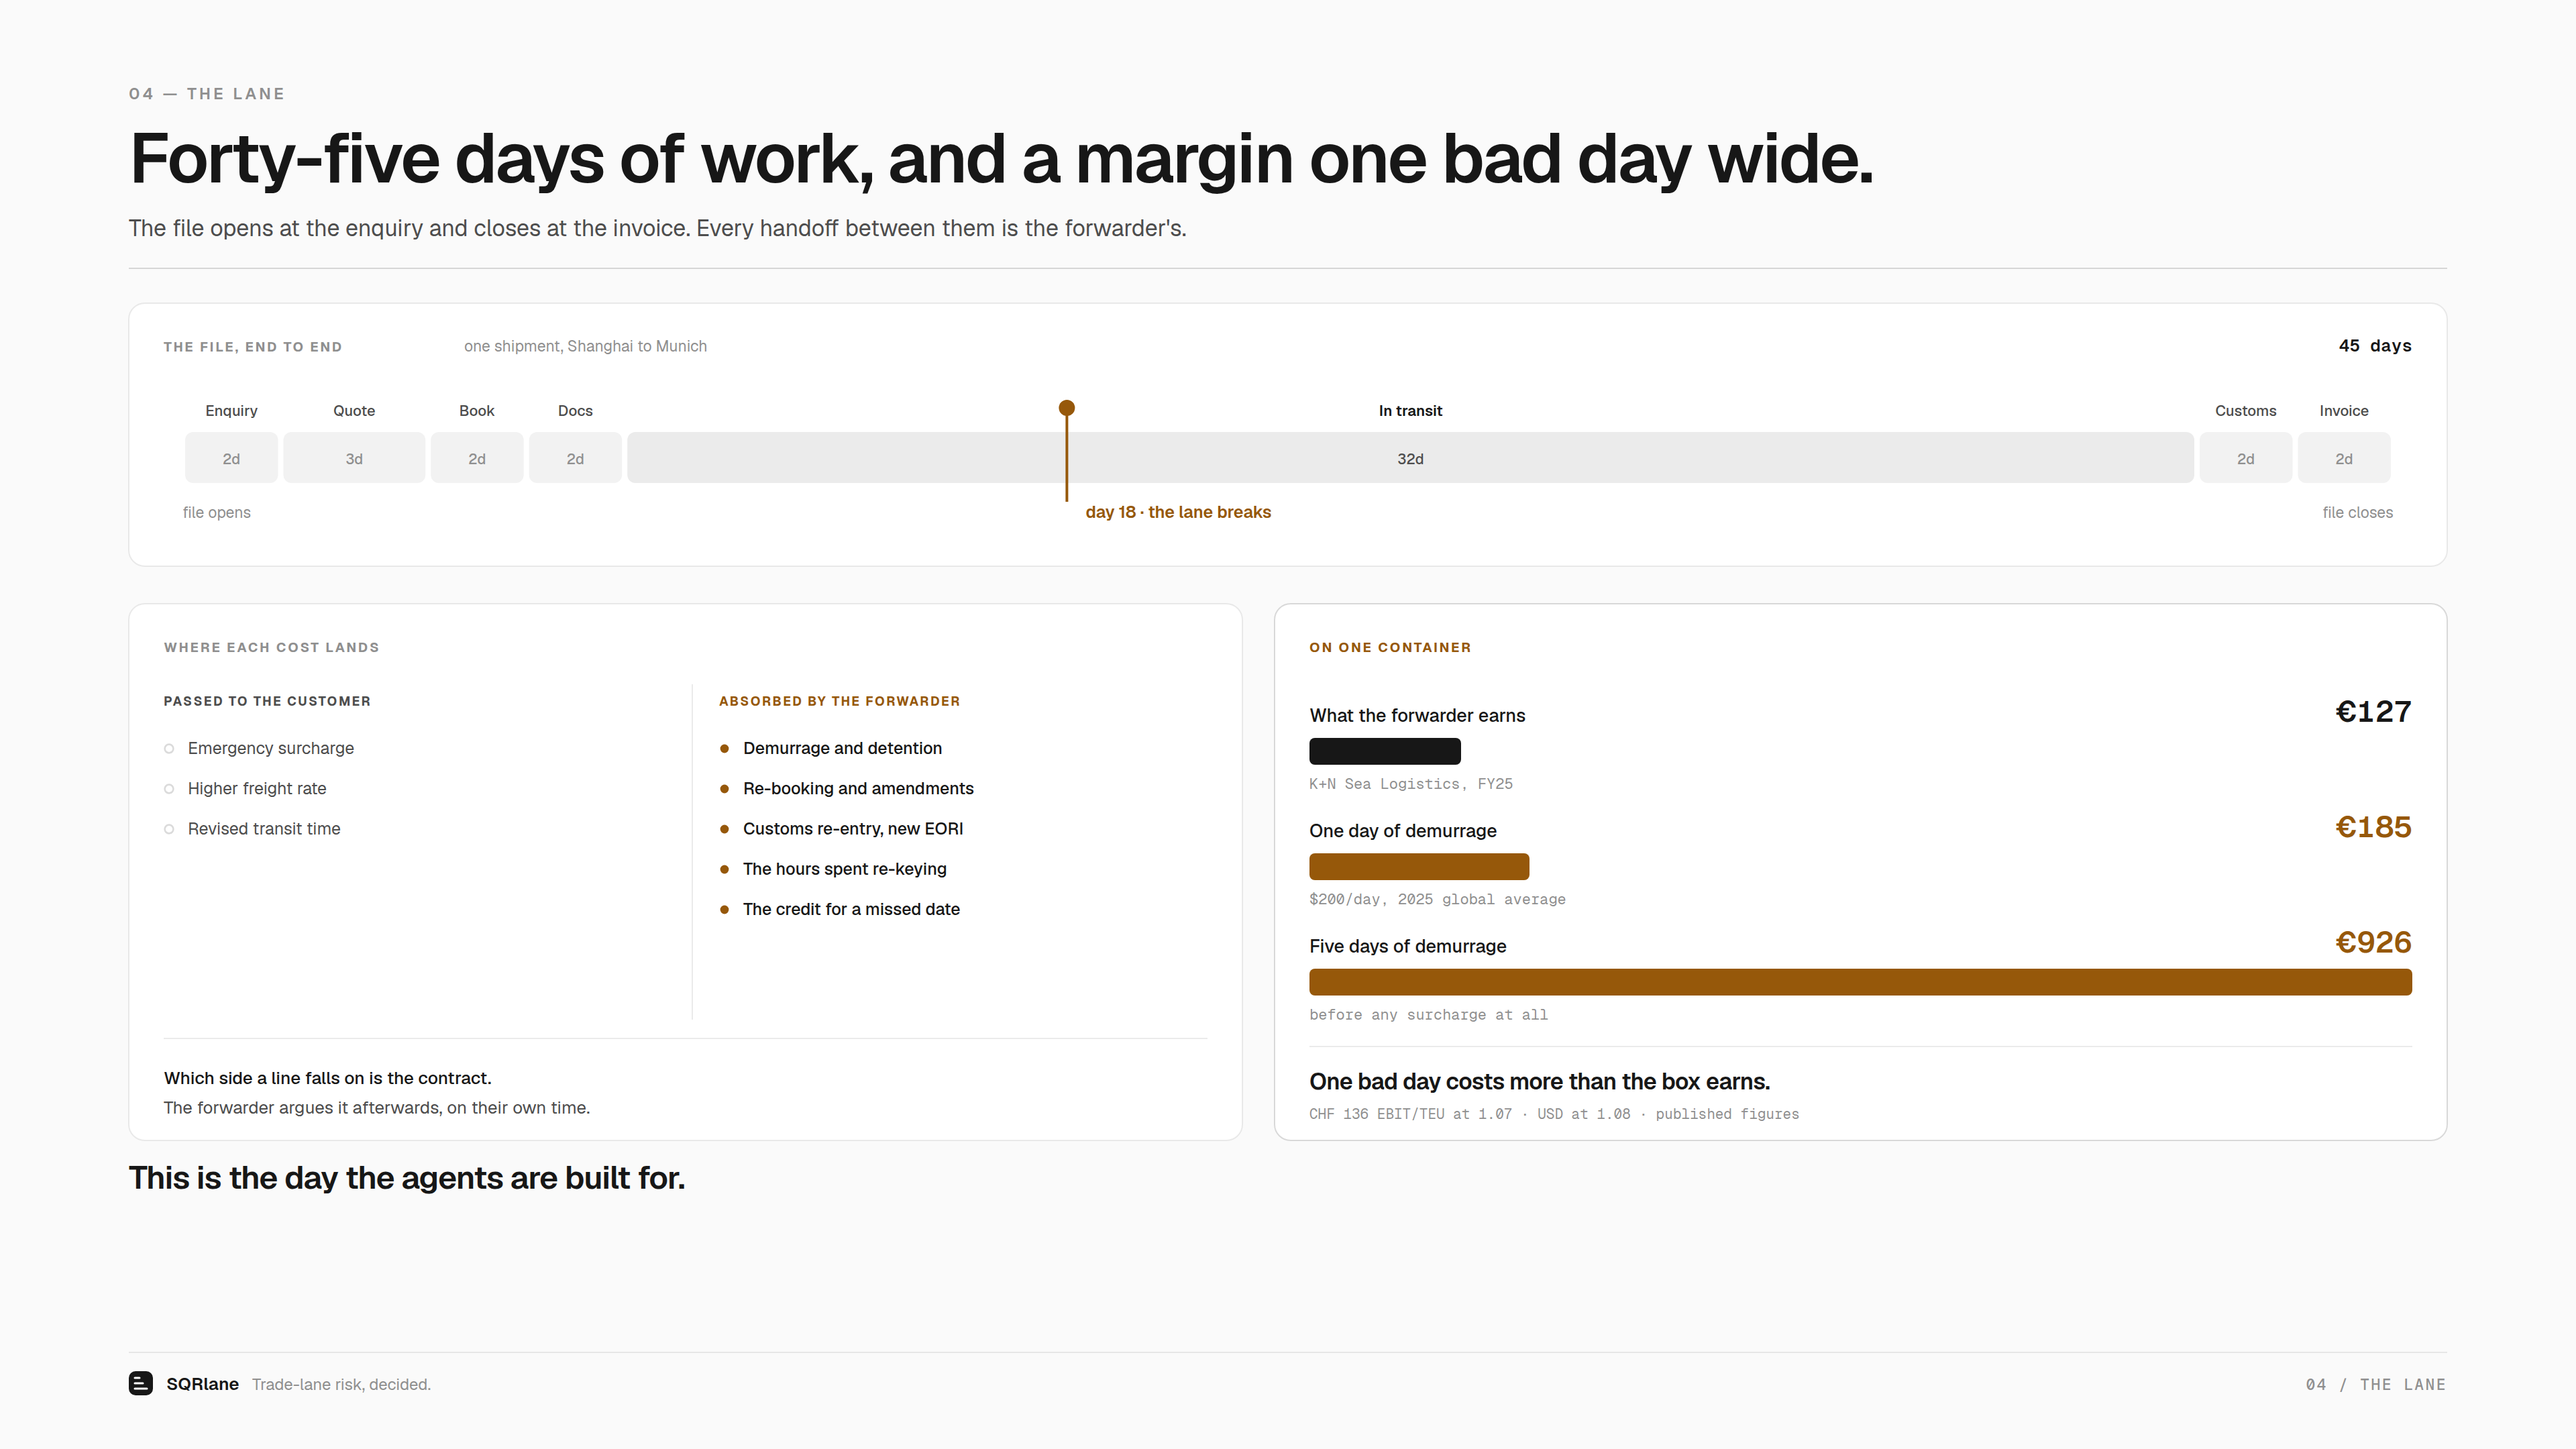
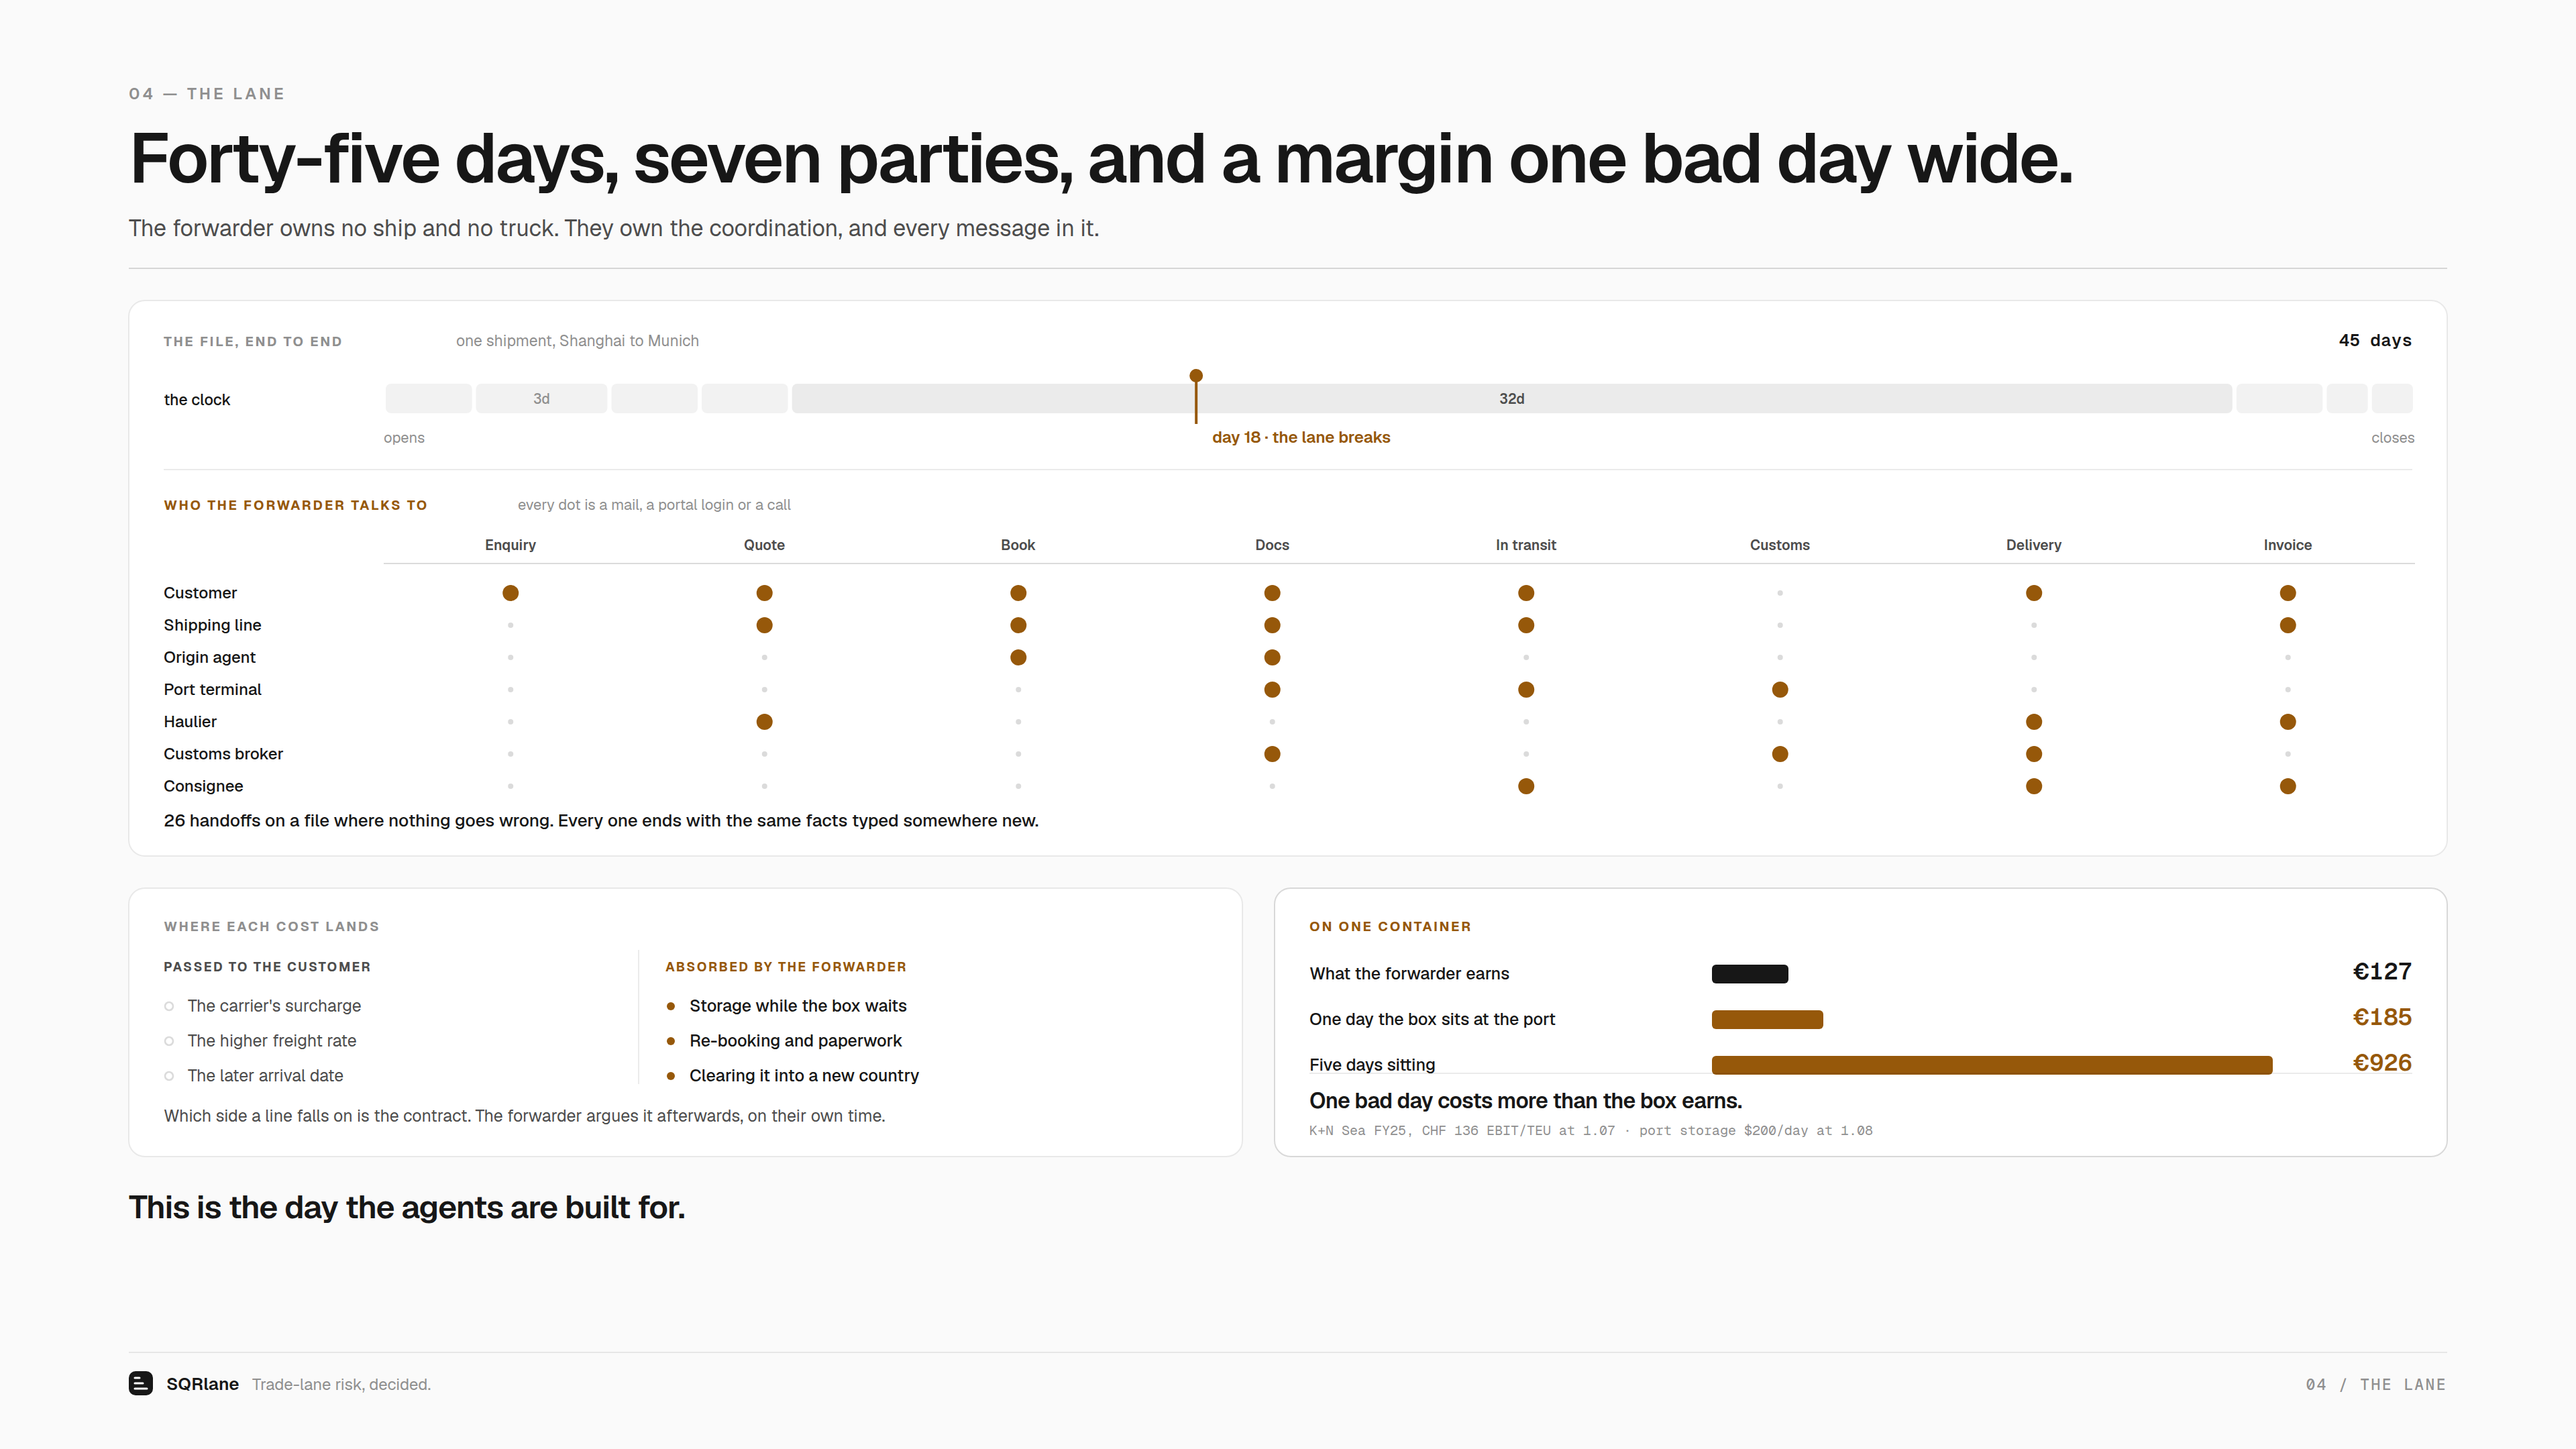
Deck: slide 04 gains the coordination web, and drops the jargon
The file was a duration bar and little else - it showed how long the job takes
without showing what the job is. The card now carries two views. The clock stays
as a proportional strip, so the sea leg visibly owns 32 of the 45 days and the
break lands at day 18. Under it, a matrix: seven parties down the side, eight
stages across, a dot wherever the forwarder has to deal with someone.

That matrix is the argument. Twenty-six dots on a file where nothing goes
wrong, counted from the data rather than asserted, and the caption names what
each one actually is: a mail, a portal login or a call that ends with the same
facts typed somewhere new. It also explains the shape of the business - a
forwarder owns no ship and no truck, so the coordination is the whole product,
and the density on screen is what that costs.

Jargon out. Demurrage and detention become storage while the box waits, and the
bars read "one day the box sits at the port" rather than naming a charge nobody
outside the trade knows. The figures are unchanged; only the words are.

The clock also gains Delivery, so the timeline and the matrix describe the same
eight stages instead of seven and eight.

Claude-Session: https://claude.ai/code/session_01CuQZ1wNRwUerJJo7pbi7JH

diff --git a/deck/build_slide_04.py b/deck/build_slide_04.py
@@ -2,110 +2,134 @@
 """
 Slide 04 - THE LANE.  Emits deck/slide-04-the-lane.svg.
 
-The bridge between why and how. Two jobs:
+The bridge from why into how. Three things:
 
-  what a forwarder's work actually is - where the file opens, where it closes,
-  and how much of the 45 days is spent waiting rather than working
+  the file, end to end, drawn to scale so the sea leg visibly dominates
+  the coordination web: who the forwarder talks to at each stage, as a matrix,
+    because the density is the job
+  what one bad day costs, and which side of the invoice it lands on
 
-  what a disruption in the middle of it costs, and which side of the invoice
-  each cost lands on
+Plain language throughout: no demurrage, no detention. A day the box sits at
+the port is what it is.
 
-The punch is the margin comparison. Kuehne+Nagel Sea Logistics - the best-run
-operator in the industry - earns CHF 136 of EBIT per TEU. One day of demurrage
-at the 2025 global average costs more than that. Every figure is published and
-its conversion is on the slide.
+EUR 127 is Kuehne+Nagel Sea Logistics FY25 - CHF 585m recurring EBIT over 4.3M
+TEU - the best-run operator in the industry, so the comparison is conservative.
+Port storage is the 2025 global average. Both conversions are on the slide.
 """
 from deckkit import *
 
-GREEN, GREEN_BG = "#0f7b3f", "#e7f5ec"
-RED_BG = "#feecec"
+GREEN = "#0f7b3f"
 
 s = Slide()
 s.header("04 — THE LANE",
-         "Forty-five days of work, and a margin one bad day wide.",
-         "The file opens at the enquiry and closes at the invoice. Every handoff between them is the forwarder's.")
+         "Forty-five days, seven parties, and a margin one bad day wide.",
+         "The forwarder owns no ship and no truck. They own the coordination, and every message in it.")
 
 # =========================================================================
-# THE FILE, END TO END
+# THE FILE - the clock, then the coordination
 # =========================================================================
-FY, FH = 226, 196
+FY, FH = 224, 414
 s.card(M, FY, CW, FH)
-s.text(M + 26, FY + 36, "THE FILE, END TO END", 10, 700, FAINT, ls=1.4)
-s.text(M + 250, FY + 36, "one shipment, Shanghai to Munich", 11.5, 400, FAINT)
-s.text(W - M - 26, FY + 36, "45 days", 13, 600, FG, anchor="end", cls="mono")
+s.text(M + 26, FY + 34, "THE FILE, END TO END", 10, 700, FAINT, ls=1.4)
+s.text(M + 244, FY + 34, "one shipment, Shanghai to Munich", 11.5, 400, FAINT)
+s.text(W - M - 26, FY + 34, "45 days", 13, 600, FG, anchor="end", cls="mono")
 
 STAGES = [("Enquiry", 2), ("Quote", 3), ("Book", 2), ("Docs", 2),
-          ("In transit", 32), ("Customs", 2), ("Invoice", 2)]
-TX0, TXW = M + 40, CW - 80
-UNIT = TXW / sum(d for _, d in STAGES)
+          ("In transit", 32), ("Customs", 2), ("Delivery", 1), ("Invoice", 1)]
+TX0, TXW = M + 190, CW - 214
+UNIT = TXW / 45
 x = TX0
 for name, days in STAGES:
     w = days * UNIT
-    hot = name == "In transit"
-    s.card(x + 2, FY + 96, w - 4, 38, fill=SURFACE_2 if hot else SURFACE, stroke="none", rx=R)
-    s.text(x + w / 2, FY + 84, name, 11, 600 if hot else 500, FG if hot else MUTED, anchor="middle")
-    s.text(x + w / 2, FY + 120, f"{days}d", 11, 500, MUTED if hot else FAINT,
-           anchor="middle", cls="mono")
+    hot = days > 10
+    s.card(x + 1.5, FY + 62, w - 3, 22, fill=SURFACE_2 if hot else SURFACE, stroke="none", rx=4)
+    if w > 70:
+        s.text(x + w / 2, FY + 77, f"{days}d", 10.5, 600 if hot else 500,
+               MUTED if hot else FAINT, anchor="middle", cls="mono")
     x += w
-
+s.text(M + 26, FY + 78, "the clock", 11.5, 500, FG)
 STRIKE = TX0 + 18 * UNIT
-s.line(STRIKE, FY + 78, STRIKE, FY + 148, AMBER, 2)
-s.raw(f'<circle cx="{STRIKE}" cy="{FY+78}" r="6" fill="{AMBER}"/>')
-s.text(STRIKE + 14, FY + 160, "day 18 · the lane breaks", 12.5, 600, AMBER)
-s.text(TX0, FY + 160, "file opens", 11.5, 400, FAINT)
-s.text(TX0 + TXW, FY + 160, "file closes", 11.5, 400, FAINT, anchor="end")
+s.line(STRIKE, FY + 56, STRIKE, FY + 92, AMBER, 2)
+s.raw(f'<circle cx="{STRIKE}" cy="{FY+56}" r="5" fill="{AMBER}"/>')
+s.text(STRIKE + 12, FY + 106, "day 18 · the lane breaks", 12, 600, AMBER)
+s.text(TX0, FY + 106, "opens", 11, 400, FAINT)
+s.text(TX0 + TXW, FY + 106, "closes", 11, 400, FAINT, anchor="end")
+s.line(M + 26, FY + 126, W - M - 26, FY + 126, BORDER)
+
+# -- the coordination web -------------------------------------------------
+s.text(M + 26, FY + 156, "WHO THE FORWARDER TALKS TO", 10, 700, AMBER, ls=1.4)
+s.text(M + 290, FY + 156, "every dot is a mail, a portal login or a call", 11, 400, FAINT)
+
+COLS = ["Enquiry", "Quote", "Book", "Docs", "In transit", "Customs", "Delivery", "Invoice"]
+PARTIES = [
+    ("Customer", [1, 1, 1, 1, 1, 0, 1, 1]),
+    ("Shipping line", [0, 1, 1, 1, 1, 0, 0, 1]),
+    ("Origin agent", [0, 0, 1, 1, 0, 0, 0, 0]),
+    ("Port terminal", [0, 0, 0, 1, 1, 1, 0, 0]),
+    ("Haulier", [0, 1, 0, 0, 0, 0, 1, 1]),
+    ("Customs broker", [0, 0, 0, 1, 0, 1, 1, 0]),
+    ("Consignee", [0, 0, 0, 0, 1, 0, 1, 1]),
+]
+TOUCHES = sum(sum(r) for _, r in PARTIES)
+MX0, MW_ = M + 190, CW - 214
+CWD = MW_ / len(COLS)
+for c, lab in enumerate(COLS):
+    s.text(MX0 + c * CWD + CWD / 2, FY + 186, lab, 10.5, 600, MUTED, anchor="middle")
+s.line(MX0, FY + 196, MX0 + MW_, FY + 196, BORDER_STRONG)
+for r, (party, row) in enumerate(PARTIES):
+    y = FY + 218 + r * 24
+    s.text(M + 26, y + 4, party, 12, 500, FG)
+    for c, on in enumerate(row):
+        cx = MX0 + c * CWD + CWD / 2
+        if on:
+            s.raw(f'<circle cx="{cx}" cy="{y}" r="6" fill="{AMBER}"/>')
+        else:
+            s.raw(f'<circle cx="{cx}" cy="{y}" r="2" fill="{GRAY400}"/>')
+s.text(M + 26, FY + FH - 22,
+       f"{TOUCHES} handoffs on a file where nothing goes wrong. Every one ends with the same facts "
+       "typed somewhere new.", 13, 500, FG)
 
 # =========================================================================
-# WHAT IT COSTS, AND WHERE IT LANDS
+# WHAT ONE BAD DAY COSTS
 # =========================================================================
-CY, CH2 = 450, 400
+CY, CH2 = 662, 200
 s.card(M, CY, 830, CH2)
-s.text(M + 26, CY + 36, "WHERE EACH COST LANDS", 10, 700, FAINT, ls=1.4)
+s.text(M + 26, CY + 32, "WHERE EACH COST LANDS", 10, 700, FAINT, ls=1.4)
 for lab, x0, col in (("PASSED TO THE CUSTOMER", M + 26, MUTED),
-                     ("ABSORBED BY THE FORWARDER", M + 440, AMBER)):
-    s.text(x0, CY + 76, lab, 9.5, 700, col, ls=1.2)
-s.line(M + 420, CY + 60, M + 420, CY + CH2 - 90, BORDER)
-
-PASSED = ["Emergency surcharge", "Higher freight rate", "Revised transit time"]
-EATEN = ["Demurrage and detention", "Re-booking and amendments", "Customs re-entry, new EORI",
-         "The hours spent re-keying", "The credit for a missed date"]
-for j, item in enumerate(PASSED):
-    y = CY + 112 + j * 30
-    s.raw(f'<circle cx="{M+30}" cy="{y-4}" r="3.2" fill="none" stroke="{GRAY400}" stroke-width="1.3"/>')
+                     ("ABSORBED BY THE FORWARDER", M + 400, AMBER)):
+    s.text(x0, CY + 62, lab, 9.5, 700, col, ls=1.2)
+s.line(M + 380, CY + 46, M + 380, CY + CH2 - 54, BORDER)
+for j, item in enumerate(["The carrier's surcharge", "The higher freight rate", "The later arrival date"]):
+    y = CY + 92 + j * 26
+    s.raw(f'<circle cx="{M+30}" cy="{y-4}" r="3" fill="none" stroke="{GRAY400}" stroke-width="1.3"/>')
     s.text(M + 44, y, item, 12.5, 400, MUTED)
-for j, item in enumerate(EATEN):
-    y = CY + 112 + j * 30
-    s.raw(f'<circle cx="{M+444}" cy="{y-4}" r="3.2" fill="{AMBER}"/>')
-    s.text(M + 458, y, item, 12.5, 500, FG)
+for j, item in enumerate(["Storage while the box waits", "Re-booking and paperwork",
+                          "Clearing it into a new country"]):
+    y = CY + 92 + j * 26
+    s.raw(f'<circle cx="{M+404}" cy="{y-4}" r="3" fill="{AMBER}"/>')
+    s.text(M + 418, y, item, 12.5, 500, FG)
+s.text(M + 26, CY + CH2 - 26,
+       "Which side a line falls on is the contract. The forwarder argues it afterwards, on their own time.",
+       12.5, 400, MUTED)
 
-s.line(M + 26, CY + CH2 - 76, M + 830 - 26, CY + CH2 - 76, BORDER)
-s.text(M + 26, CY + CH2 - 42, "Which side a line falls on is the contract.", 13, 500, FG)
-s.text(M + 26, CY + CH2 - 20, "The forwarder argues it afterwards, on their own time.", 13, 400, MUTED)
-
-# =========================================================================
-# THE MARGIN, AGAINST THE DELAY
-# =========================================================================
 BX, BW = 950, W - M - 950
 s.card(BX, CY, BW, CH2, stroke=BORDER_STRONG)
-s.text(BX + 26, CY + 36, "ON ONE CONTAINER", 10, 700, AMBER, ls=1.4)
-
-BARS = [("What the forwarder earns", 127, FG, "K+N Sea Logistics, FY25"),
-        ("One day of demurrage", 185, AMBER, "$200/day, 2025 global average"),
-        ("Five days of demurrage", 926, AMBER, "before any surcharge at all")]
-BAR_X, BAR_MAX, TOPV = BX + 26, BW - 52, 926
-for j, (lab, val, col, note) in enumerate(BARS):
-    y = CY + 88 + j * 86
-    s.text(BAR_X, y, lab, 13.5, 500, FG)
-    s.raw(f'<text x="{BX+BW-26}" y="{y}" font-size="22" font-weight="600" fill="{col}" '
+s.text(BX + 26, CY + 32, "ON ONE CONTAINER", 10, 700, AMBER, ls=1.4)
+BARS = [("What the forwarder earns", 127, FG), ("One day the box sits at the port", 185, AMBER),
+        ("Five days sitting", 926, AMBER)]
+BAR_X, BAR_MAX = BX + 26, BW - 200
+for j, (lab, val, col) in enumerate(BARS):
+    y = CY + 68 + j * 34
+    s.text(BAR_X, y, lab, 12.5, 500, FG)
+    s.raw(f'<rect x="{BAR_X+300}" y="{y-11}" width="{BAR_MAX*val/926*0.62:.0f}" height="14" '
+          f'rx="3" fill="{col}"/>')
+    s.raw(f'<text x="{BX+BW-26}" y="{y}" font-size="17" font-weight="600" fill="{col}" '
           f'text-anchor="end" class="num">€{val:,}</text>')
-    s.raw(f'<rect x="{BAR_X}" y="{y+12}" width="{BAR_MAX*val/TOPV:.0f}" height="20" rx="4" fill="{col}"/>')
-    s.text(BAR_X, y + 50, note, 11, 400, FAINT, cls="mono")
+s.line(BAR_X, CY + CH2 - 62, BX + BW - 26, CY + CH2 - 62, BORDER)
+s.text(BAR_X, CY + CH2 - 36, "One bad day costs more than the box earns.", 16, 600, FG, ls=-0.3)
+s.text(BAR_X, CY + CH2 - 16, "K+N Sea FY25, CHF 136 EBIT/TEU at 1.07 · port storage $200/day at 1.08",
+       10, 400, FAINT, cls="mono")
 
-s.line(BAR_X, CY + CH2 - 70, BX + BW - 26, CY + CH2 - 70, BORDER)
-s.text(BAR_X, CY + CH2 - 38, "One bad day costs more than the box earns.", 17, 600, FG, ls=-0.3)
-s.text(BAR_X, CY + CH2 - 16, "CHF 136 EBIT/TEU at 1.07 · USD at 1.08 · published figures",
-       10.5, 400, FAINT, cls="mono")
-
-s.text(M, 886, "This is the day the agents are built for.", 24, 600, FG, ls=-0.5)
+s.text(M, 908, "This is the day the agents are built for.", 24, 600, FG, ls=-0.5)
 s.footer("04 / THE LANE")
 s.write("slide-04-the-lane.svg")
